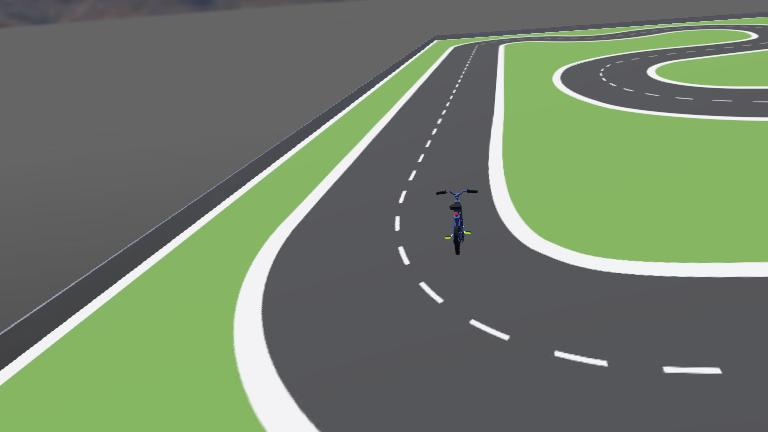
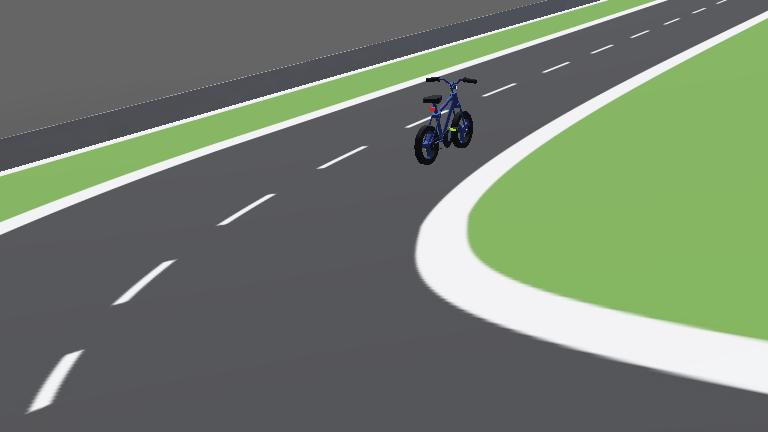
Kamera positioniert

diff --git a/Regelstuerung/controllers/vision_control_py/vision_control_py.py b/Regelstuerung/controllers/vision_control_py/vision_control_py.py
@@ -50,8 +50,8 @@ class VisionController:
         # Kamera-Offset relativ zum Fahrrad (nur Translation, Rotation erbt vom Transform)
         self.camera_offset = [0, 0.1, 0.35]  # x, y, z Offset
         
-        # Kamera-Transform-Node-Referenz für dynamische Positionierung
-        self.camera_transform_node = self.robot.getFromDef('CAMERA_TRANSFORM')
+        # Vision Controller Kamera-Transform-Node-Referenz für dynamische Positionierung
+        self.camera_transform_node = self.robot.getFromDef('VISION_CAMERA_TRANSFORM')
         
         # YOLO-Modell laden (falls verfügbar)
         self._init_yolo()
@@ -78,24 +78,25 @@ class VisionController:
         
         print("=== Vision Controller gestartet ===")
         print(f"YOLO verfügbar: {YOLO_AVAILABLE}")
-        print(f"Supervisor-Kamera: {'✓' if self.camera else '✗'}")
+        print(f"Vision Controller Kamera: {'✓' if self.camera else '✗'}")
+        print(f"Fahrrad Kamera: ✓ (am Fahrrad montiert)")
         print(f"Kamera-Transform: {'✓' if self.camera_transform_node else '✗'}")
         print(f"Display: {'✓' if self.display else '✗'}")
         print(f"Fahrrad-Tracking: {'✓' if self.bicycle else '✗'}")
         print(f"Vision-PID: Kp={self.vision_kp}, Ki={self.vision_ki}, Kd={self.vision_kd}")
         print(f"Speed-Range: {self.min_speed:.1f} - {self.max_speed:.1f}")
-        print(f"Kamera-Architektur: Transform-basiert (automatische Fahrtrichtung)")
+        print(f"Kamera-Architektur: Dual-Kamera (Vision Controller + Fahrrad)")
         print("====================================\n")
     
     def _init_devices(self):
         """Initialisiert alle Webots-Geräte"""
-        # Kamera (direkt am Supervisor)
+        # Vision Controller Kamera (folgt dem Fahrrad)
         self.camera = self.robot.getDevice('camera')
         if self.camera:
             self.camera.enable(self.timestep * 4)  # Reduzierte Kamera-Frequenz
-            print("✓ Kamera initialisiert")
+            print("✓ Vision Controller Kamera initialisiert")
         else:
-            print("✗ Kamera nicht gefunden!")
+            print("✗ Vision Controller Kamera nicht gefunden!")
             
         # Display für Overlay
         self.display = self.robot.getDevice('display')
@@ -125,41 +126,25 @@ class VisionController:
 
 
     def _update_camera_position(self):
-        """Aktualisiert die Kamera-Position relativ zum Fahrrad"""
+        """Aktualisiert die Vision Controller Kamera-Position relativ zum Fahrrad"""
         if not (self.bicycle and self.camera_transform_node):
             return
             
         try:
             # Fahrrad-Position und -Rotation abrufen
             bike_pos = self.bicycle.getPosition()
-            bike_rot = self.bicycle.getOrientation()
-            
-            # Rotation Matrix aus 3x3 Array erstellen für Offset-Transformation
-            import numpy as np
-            rot_matrix = np.array(bike_rot).reshape(3, 3)
-            
-            # Kamera-Offset in Welt-Koordinaten transformieren
-            offset = np.array(self.camera_offset)
-            world_offset = rot_matrix.dot(offset)
-            
-            # Neue Kamera-Transform-Position berechnen
-            new_pos = [
-                bike_pos[0] + world_offset[0],
-                bike_pos[1] + world_offset[1], 
-                bike_pos[2] + world_offset[2]
-            ]
-            
-            # Kamera-Transform-Position setzen (Rotation wird automatisch vom Transform übernommen)
-            translation_field = self.camera_transform_node.getField('translation')
-            translation_field.setSFVec3f(new_pos)
-            
-            # Fahrrad-Rotation auf Transform-Knoten übertragen
             bike_rotation = self.bicycle.getField('rotation').getSFRotation()
+            
+            # Vision Controller Kamera-Transform exakt an Fahrradposition setzen
+            translation_field = self.camera_transform_node.getField('translation')
+            translation_field.setSFVec3f(bike_pos)
+            
+            # Fahrrad-Rotation auf Vision Controller Transform übertragen
             rotation_field = self.camera_transform_node.getField('rotation')
             rotation_field.setSFRotation(bike_rotation)
             
         except Exception as e:
-            print(f"Kamera-Positionierung-Fehler: {e}")
+            print(f"Vision Controller Kamera-Positionierung-Fehler: {e}")
         
     def _init_yolo(self):
         """Initialisiert YOLO-Modell (falls verfügbar)"""
